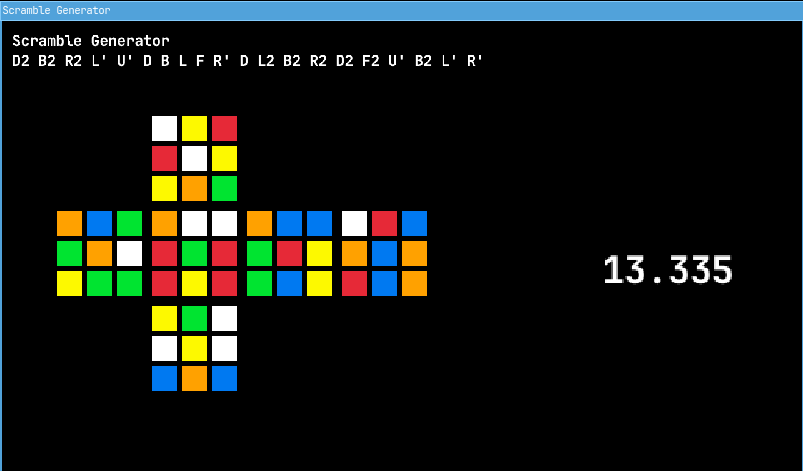
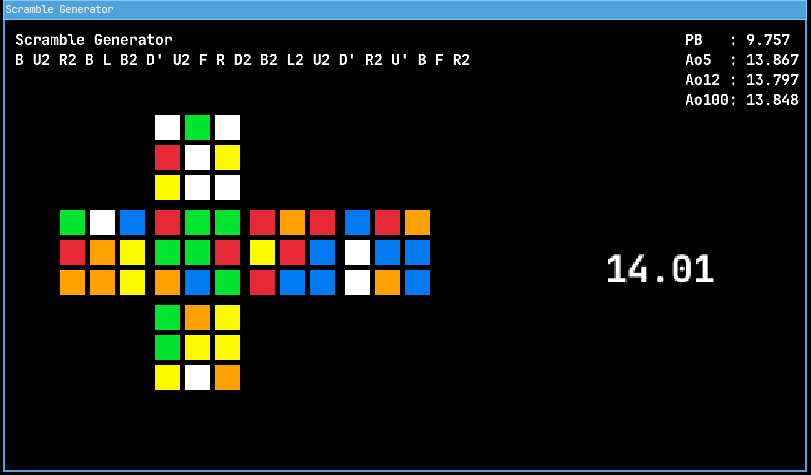
Add saves and calculate avg

Changed region(s): [[0.0, 0.0, 1.0, 1.0], [0.0623, 0.2378, 0.5293, 0.8323], [0.7472, 0.535, 0.934, 0.6242]]

diff --git a/src/save.rs b/src/save.rs
@@ -1,0 +1,91 @@
+use std::fs::OpenOptions;
+use std::io::{Read, Write};
+
+// method that calculates the average of the last 5 solves
+pub fn get_avg(n: usize) -> f64 {
+
+    // try to open the file
+    let mut file = match OpenOptions::new().read(true).open("./src/saves/scrambles.csv") {
+        Ok(file) => file,
+        Err(_) => return 0.0,
+    }; 
+
+    let mut contents = String::new();
+    file.read_to_string(&mut contents).unwrap();
+    
+    // collect the times from the file into a vector of f64
+    let times: Vec<f64> = contents.lines().map(|x| x.split(",").collect::<Vec<&str>>()[1].parse::<f64>().unwrap()).collect();
+
+    // if there are less then n solves return 0.0 
+    if times.len() < n {
+        return 0.0;
+    }
+
+    let mut last_five: Vec<f64> = times.iter().rev().take(n).map(|x| *x).collect();
+
+    // remove the best and the worst time from the vector
+    last_five.sort_by(|a, b| a.partial_cmp(b).unwrap());
+    last_five.pop();
+    last_five.remove(0);
+
+    // return the average of the last n solves and rounds to 3 decimal places
+    ((last_five.iter().sum::<f64>() / (n - 2) as f64) * 1000.0).round() / 1000.0
+}
+
+pub fn get_pb() -> f64 {
+    // try to open the file
+    let mut file = match OpenOptions::new().read(true).open("./src/saves/scrambles.csv") {
+        Ok(file) => file,
+        Err(_) => return 0.0,
+    }; 
+
+    let mut contents = String::new();
+    file.read_to_string(&mut contents).unwrap();
+    
+    // collect the times from the file into a vector of f64
+    let times: Vec<f64> = contents.lines().map(|x| x.split(",").collect::<Vec<&str>>()[1].parse::<f64>().unwrap()).collect();
+
+    // if there are less then n solves return 0.0 
+    if times.len() == 0 {
+        return 0.0;
+    }
+
+    let x = times.iter().min_by(|a, b| a.partial_cmp(b).unwrap()).unwrap();
+    x.clone()
+}
+
+pub fn get_last() -> f64 {
+    // try to open the file
+    let mut file = match OpenOptions::new().read(true).open("./src/saves/scrambles.csv") {
+        Ok(file) => file,
+        Err(_) => return 0.0,
+    }; 
+
+    let mut contents = String::new();
+    file.read_to_string(&mut contents).unwrap();
+    
+    // collect the times from the file into a vector of f64
+    let times: Vec<f64> = contents.lines().map(|x| x.split(",").collect::<Vec<&str>>()[1].parse::<f64>().unwrap()).collect();
+
+    // if there are less then n solves return 0.0 
+    if times.len() == 0 {
+        return 0.0;
+    }
+
+    let x = times.iter().last().unwrap();
+    x.clone()
+}
+
+
+pub fn save_data(scramble: &str, time: f64) {
+    // try to open the file, if it doesn't exist create it saves/scrambles.txt
+    let mut file = OpenOptions::new()
+        .write(true)
+        .append(true)
+        .create(true)
+        .open("./src/saves/scrambles.csv")
+        .unwrap();
+
+    let data = format!("{},{}\n", scramble.trim_end(), time);
+    file.write_all(data.as_bytes()).unwrap();
+}

diff --git a/src/main.rs b/src/main.rs
@@ -1,5 +1,6 @@
 mod scramble_generator;
 mod scrambler;
+mod save;
 
 use raylib::prelude::*;
 use std::time::Instant;
@@ -28,7 +29,12 @@ fn main() {
     // stopwatch
     let mut is_stopwatch: bool = false;
     let mut stopwatch_timer: Instant = Instant::now();
-    let mut stopwatch_time = 0.0;
+    let mut stopwatch_time = save::get_last();
+
+    let mut avg5 = save::get_avg(5); 
+    let mut avg12 = save::get_avg(12);
+    let mut avg100 = save::get_avg(100);
+    let mut pb = save::get_pb();
 
     // main loop
     while !rl.window_should_close() {
@@ -47,10 +53,15 @@ fn main() {
         
 
         let mut d = rl.begin_drawing(&thread);
+
     
         d.clear_background(Color::BLACK);
         d.draw_text_ex( &font, "Scramble Generator", Vector2::new(10.0, 10.0), 20.0, 0.0, Color::WHITE);
         d.draw_text_ex( &font, &scramble, Vector2::new(10.0, 30.0), 20.0, 0.0, Color::WHITE);
+        d.draw_text_ex( &font, format!("PB   :\t{}", &pb).as_str(), Vector2::new(680.0, 10.0), 20.0, 0.0, Color::WHITE);
+        d.draw_text_ex( &font, format!("Ao5  :\t{}", &avg5).as_str(), Vector2::new(680.0, 30.0), 20.0, 0.0, Color::WHITE);
+        d.draw_text_ex( &font, format!("Ao12 :\t{}", &avg12).as_str(), Vector2::new(680.0, 50.0), 20.0, 0.0, Color::WHITE);
+        d.draw_text_ex( &font, format!("Ao100:\t{}", &avg100).as_str(), Vector2::new(680.0, 70.0), 20.0, 0.0, Color::WHITE);
 
         if start {
             let elapsed = timer.elapsed().as_secs();
@@ -101,6 +112,13 @@ fn main() {
             if d.is_key_down(raylib::consts::KeyboardKey::KEY_SPACE) {
                 is_stopwatch = false;
                 stopwatch_time = elapsed;
+                save::save_data(&scramble, elapsed);
+                avg5 = save::get_avg(5);
+                avg12 = save::get_avg(12);
+                avg100 = save::get_avg(100);
+                pb = save::get_pb();
+                scramble = scramble_generator::generate();
+                mat = scrambler::scramble(&scramble);
             }
         }
         
